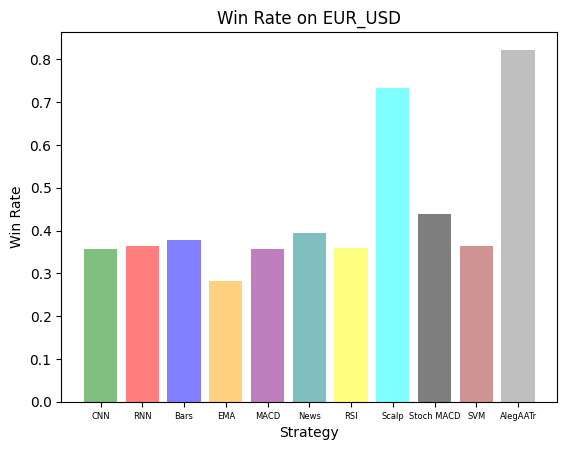
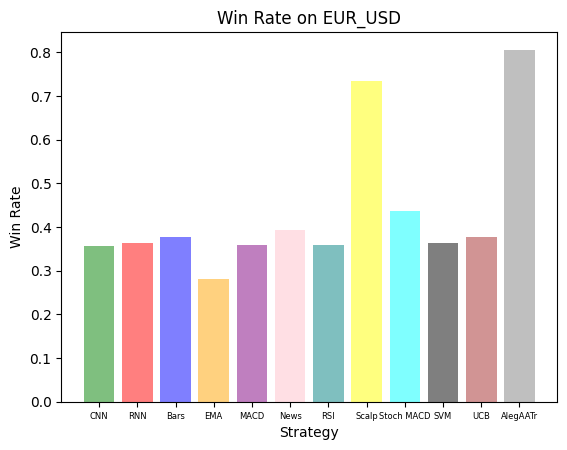
Add UCB

diff --git a/strategy/ucb.py b/strategy/ucb.py
@@ -1,0 +1,63 @@
+from aat.aat_market_trainer import AatMarketTrainer
+from copy import deepcopy
+from pandas import DataFrame
+from market_proxy.currency_pairs import CurrencyPairs
+from market_proxy.data_retriever import DataRetriever
+from market_proxy.market_simulator import MarketSimulator
+from market_proxy.trades import Trade
+from nn.learner import Learner
+import numpy as np
+from strategy.strategy_class import Strategy
+from strategy.strategy_results import StrategyResults
+from typing import List, Optional
+
+
+class UCB(Strategy):
+    def __init__(self, starting_idx: int, experts: List[Strategy], delta: float = 0.99):
+        description = f'UCB with {len(experts)} different strategies/experts'
+        Strategy.__init__(self, 'UCB', description, starting_idx)
+        self.experts, self.empirical_rewards, self.n_samples = {}, {}, {}
+
+        for expert in experts:
+            self.experts[expert.name] = deepcopy(expert)
+            self.empirical_rewards[expert.name] = 0
+            self.n_samples[expert.name] = 0
+
+        self.delta = delta
+        self.expert_name = None
+
+    def trade_finished(self, net_profit: float) -> None:
+        self.empirical_rewards[self.expert_name] += net_profit
+
+    def place_trade(self, curr_idx: int, market_data: DataFrame) -> Optional[Trade]:
+        predictions = {}
+
+        for expert_name in self.experts.keys():
+            n_samples = self.n_samples[expert_name]
+
+            if n_samples == 0:
+                predictions[expert_name] = np.inf
+
+            else:
+                empirical_avg = self.empirical_rewards[expert_name] / n_samples
+                upper_bound = ((2 * np.log(1 / self.delta)) / n_samples) ** 0.5
+                predictions[expert_name] = empirical_avg + upper_bound
+
+        self.expert_name = max(predictions, key=lambda key: predictions[key])
+        self.n_samples[self.expert_name] += 1
+
+        return self.experts[self.expert_name].place_trade(curr_idx, market_data)
+
+    def run_strategy(self, currency_pair: CurrencyPairs, aat_trainer: Optional[AatMarketTrainer] = None,
+                     learner: Optional[Learner] = None, date_range: str = '2018-2021') -> StrategyResults:
+        self.currency_pair = currency_pair
+
+        for expert in self.experts.values():
+            expert.currency_pair = self.currency_pair
+            expert.load_models()
+
+        self.load_models()
+        market_data = DataRetriever.get_data_for_pair(currency_pair, date_range)
+
+        return MarketSimulator.run_simulation(self, market_data, aat_trainer, learner)
+

diff --git a/testing/test.py b/testing/test.py
@@ -13,6 +13,7 @@ from strategy.rsi_crossover_strategy import RSICrossStrategy
 from strategy.scalp_strategy import ScalpStrategy
 from strategy.stoch_macd_crossover_strategy import StochMACDCrossStrategy
 from strategy.svm_strategy import SVMStrategy
+from strategy.ucb import UCB
 from utils.utils import AAT_TESTING_YEARS, RISK_REWARD_RATIO, PROBA_CUTOFF, LOOKBACK, SPREAD_CUTOFF, QUICK_TEST_YEARS
 import warnings
 
@@ -31,16 +32,15 @@ strategies = [CnnStrategy(CNN_LOOKBACK, RISK_REWARD_RATIO, PROBA_CUTOFF, LOOKBAC
               SVMStrategy(LOOKBACK, RISK_REWARD_RATIO, PROBA_CUTOFF, LOOKBACK, SPREAD_CUTOFF)]
 
 starting_idx = max([strat.starting_idx for strat in strategies])
+ucb = UCB(starting_idx, strategies)
 alegaatr = Alegaatr(starting_idx, strategies)
-strategies.append(alegaatr)
+strategies.extend([ucb, alegaatr])
 
 all_pairs = CurrencyPairs.all_pairs()
-# all_pairs = [all_pairs[1]]
 reward_results, day_fee_results, profit_results, n_trades_results, win_rate_results = {}, {}, {}, {}, {}
-names = ['CNN', 'RNN', 'Bars', 'EMA', 'MACD', 'News', 'RSI', 'Scalp', 'Stoch MACD', 'SVM', 'AlegAATr']
+names = ['CNN', 'RNN', 'Bars', 'EMA', 'MACD', 'News', 'RSI', 'Scalp', 'Stoch MACD', 'SVM', 'UCB', 'AlegAATr']
 
 for strategy in strategies:
-
     for currency_pair in all_pairs:
         results = strategy.run_strategy(currency_pair, date_range=AAT_TESTING_YEARS)
         print(f'Results for {currency_pair.value}:\n{results}')
@@ -76,7 +76,7 @@ for currency_pair in all_pairs:
     wls_df.to_csv(f'./results/{key}_wins_losses.csv')
 
     # Generate plots
-    COLORS = ['green', 'red', 'blue', 'orange', 'purple', 'teal', 'yellow', 'cyan', 'black', 'brown', 'gray']
+    COLORS = ['green', 'red', 'blue', 'orange', 'purple', 'pink', 'teal', 'yellow', 'cyan', 'black', 'brown', 'gray']
 
     x_pos = np.arange(len(names))
     plt.bar(x_pos, rewards, align='center', alpha=0.5, color=COLORS)

diff --git a/strategy/alegaatr.py b/strategy/alegaatr.py
@@ -11,7 +11,6 @@ from market_proxy.trades import Trade, TradeCalculations, TradeType
 from nn.learner import Learner
 import numpy as np
 import pickle
-import random
 from strategy.strategy_class import Strategy
 from strategy.strategy_results import StrategyResults
 from typing import List, Optional, Tuple
@@ -126,8 +125,6 @@ class Alegaatr(Strategy):
                                       slowd_rsi, vo, willy, willy_ema)
 
         new_assumptions = Assumptions(ti_vals, bid_open, ask_open, key_level, 0)
-        # self.assumptions_collection.update(new_assumptions)
-        # tup = self.assumptions_collection.generate_moving_averages()
         tup = new_assumptions.create_aat_tuple()[:-1]
 
         predictions = {}
@@ -162,19 +159,6 @@ class Alegaatr(Strategy):
 
             else:
                 predictions[expert_name] = total_pred
-
-        # sorted_preds = list(predictions.items())
-        # sorted_preds.sort(key=lambda x: x[1])
-        # rewards = [pred[1] for pred in sorted_preds[:self.at_least_n_positive]]
-        #
-        # if not all([reward > 0 for reward in rewards]):
-        #     return None
-        #
-        # names = [pred[0] for pred in sorted_preds[:self.at_least_n_positive]]
-        # reward_sum = sum(rewards)
-        # weights = [reward / reward_sum for reward in rewards]
-        #
-        # expert_key = random.choices(names, weights=weights, k=1)[0]
 
         expert_key = max(predictions, key=lambda key: predictions[key])
         sorted_preds = sorted(predictions.values(), reverse=True)
